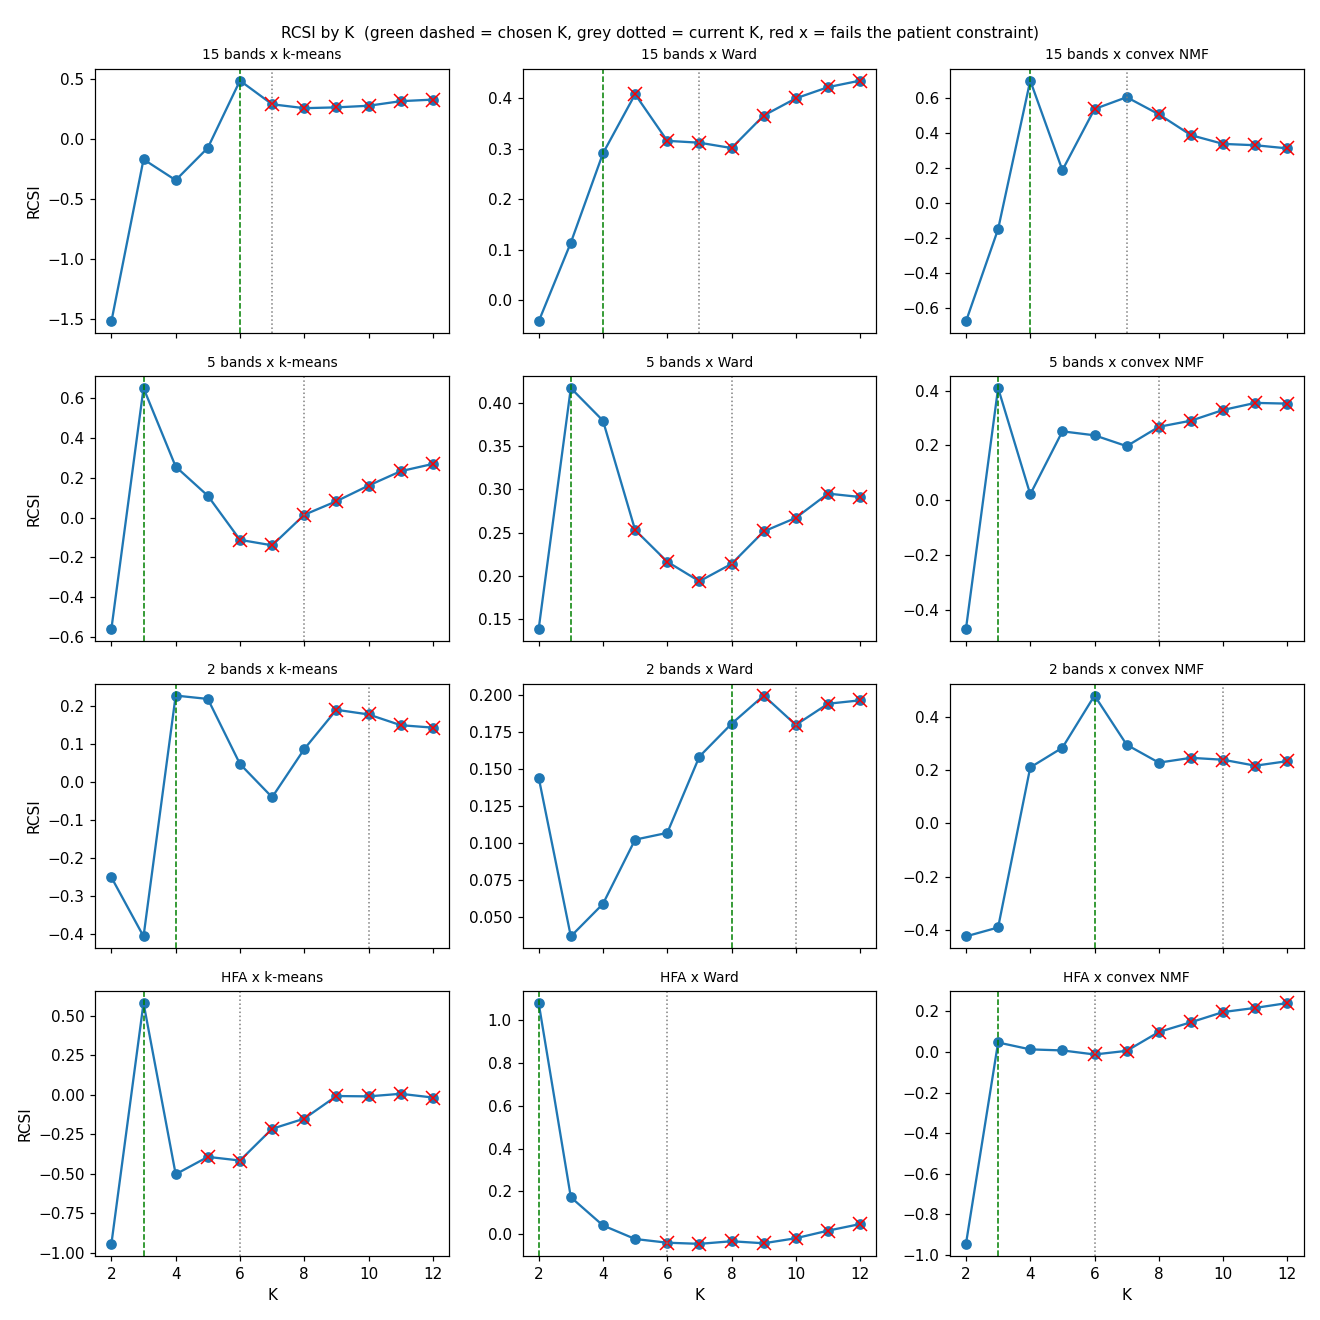
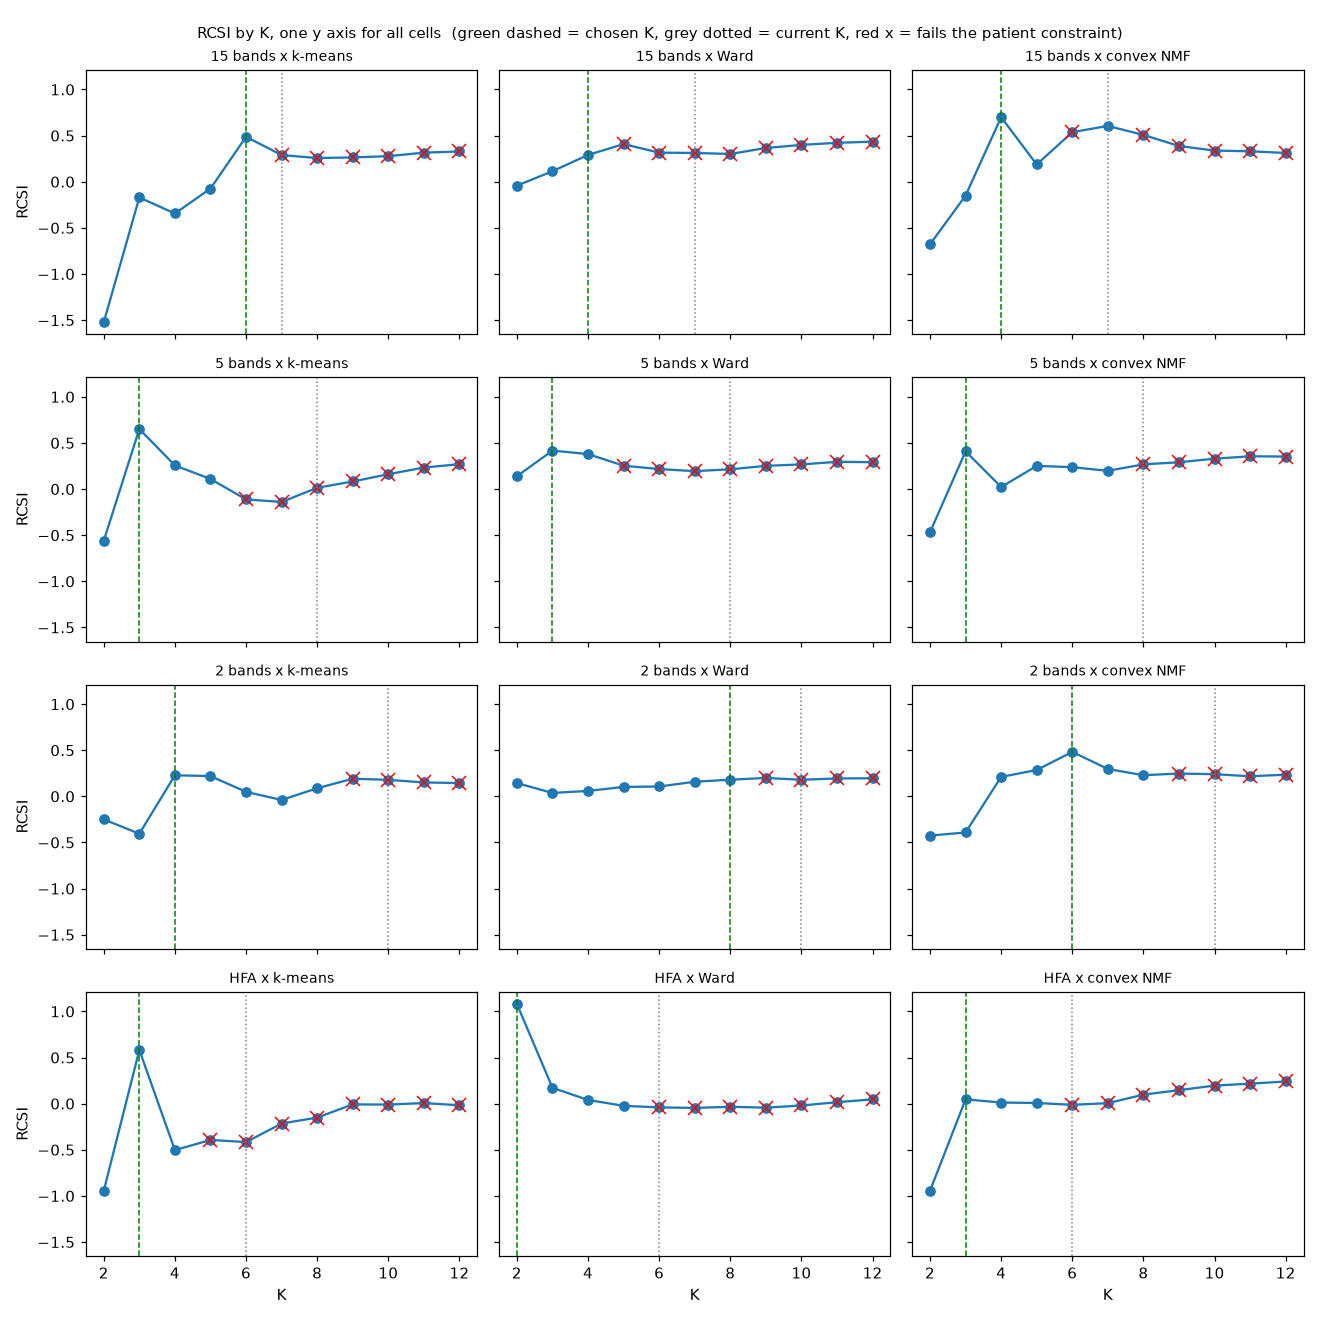
consensus_stability.py: the RCSI-by-K page shares one y axis across the twelve cells (Lora, 2026-10-26)
rcsi_by_k.png redrawn from the saved curves with --summary-only; SUMMARY.md and summary_cells.csv
rewritten from the same results.

diff --git a/02_FBM_Clustering/consensus_stability.py b/02_FBM_Clustering/consensus_stability.py
@@ -591,7 +591,8 @@ def cross_cell(root: Path, a, log):
         import matplotlib
         matplotlib.use("Agg")
         import matplotlib.pyplot as plt
-        fig, axs = plt.subplots(len(a.fsets), len(a.methods), figsize=(4 * len(a.methods), 3 * len(a.fsets)), squeeze=False, sharex=True)
+        # one y axis for every cell (Lora, 2026-10-26), so a panel's RCSI can be read against the others
+        fig, axs = plt.subplots(len(a.fsets), len(a.methods), figsize=(4 * len(a.methods), 3 * len(a.fsets)), squeeze=False, sharex=True, sharey=True)
         for i, fs in enumerate(a.fsets):
             for j, m in enumerate(a.methods):
                 ax = axs[i, j]
@@ -611,7 +612,7 @@ def cross_cell(root: Path, a, log):
                 ax.set_title(f"{FSET_LABEL[fs]} x {LABEL[m]}", fontsize=9)
                 if i == len(a.fsets) - 1: ax.set_xlabel("K")
                 if j == 0 and "rcsi" in locals().get("c", pd.DataFrame()): ax.set_ylabel("RCSI")
-        fig.suptitle("RCSI by K  (green dashed = chosen K, grey dotted = current K, red x = fails the patient constraint)", fontsize=10)
+        fig.suptitle("RCSI by K, one y axis for all cells  (green dashed = chosen K, grey dotted = current K, red x = fails the patient constraint)", fontsize=10)
         fig.tight_layout(); fig.savefig(root / "rcsi_by_k.png", dpi=110); plt.close(fig)
 
     # SUMMARY.md
